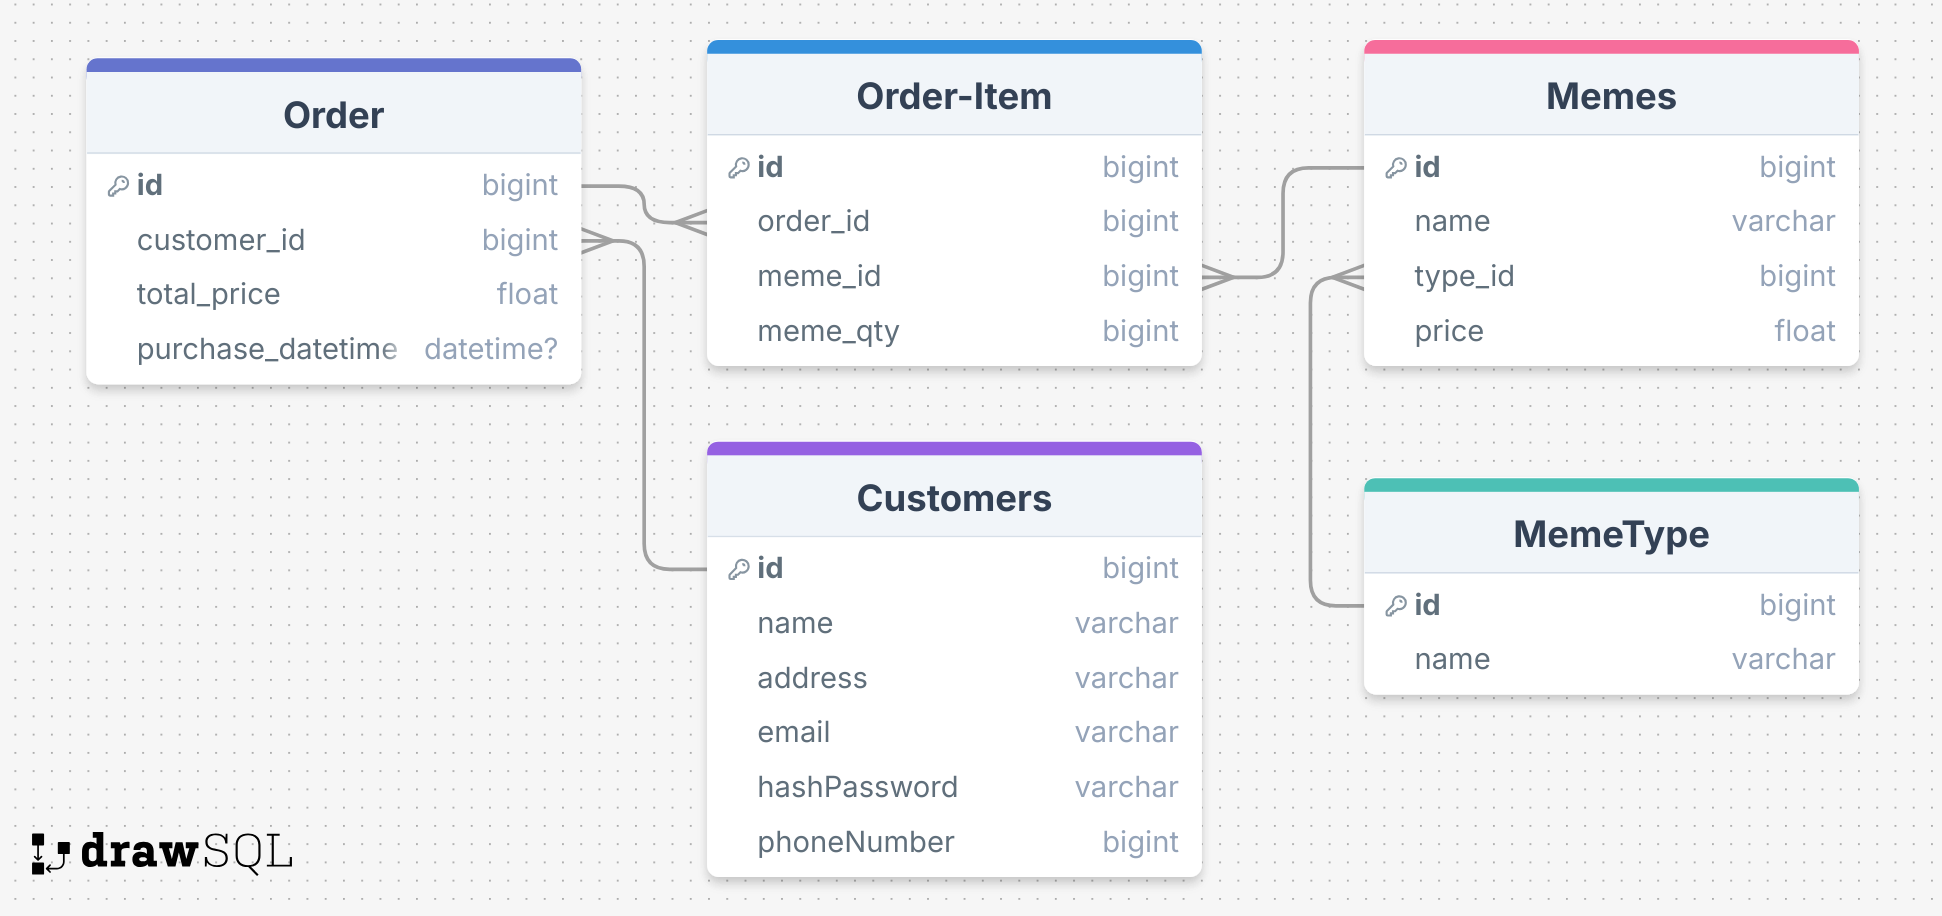
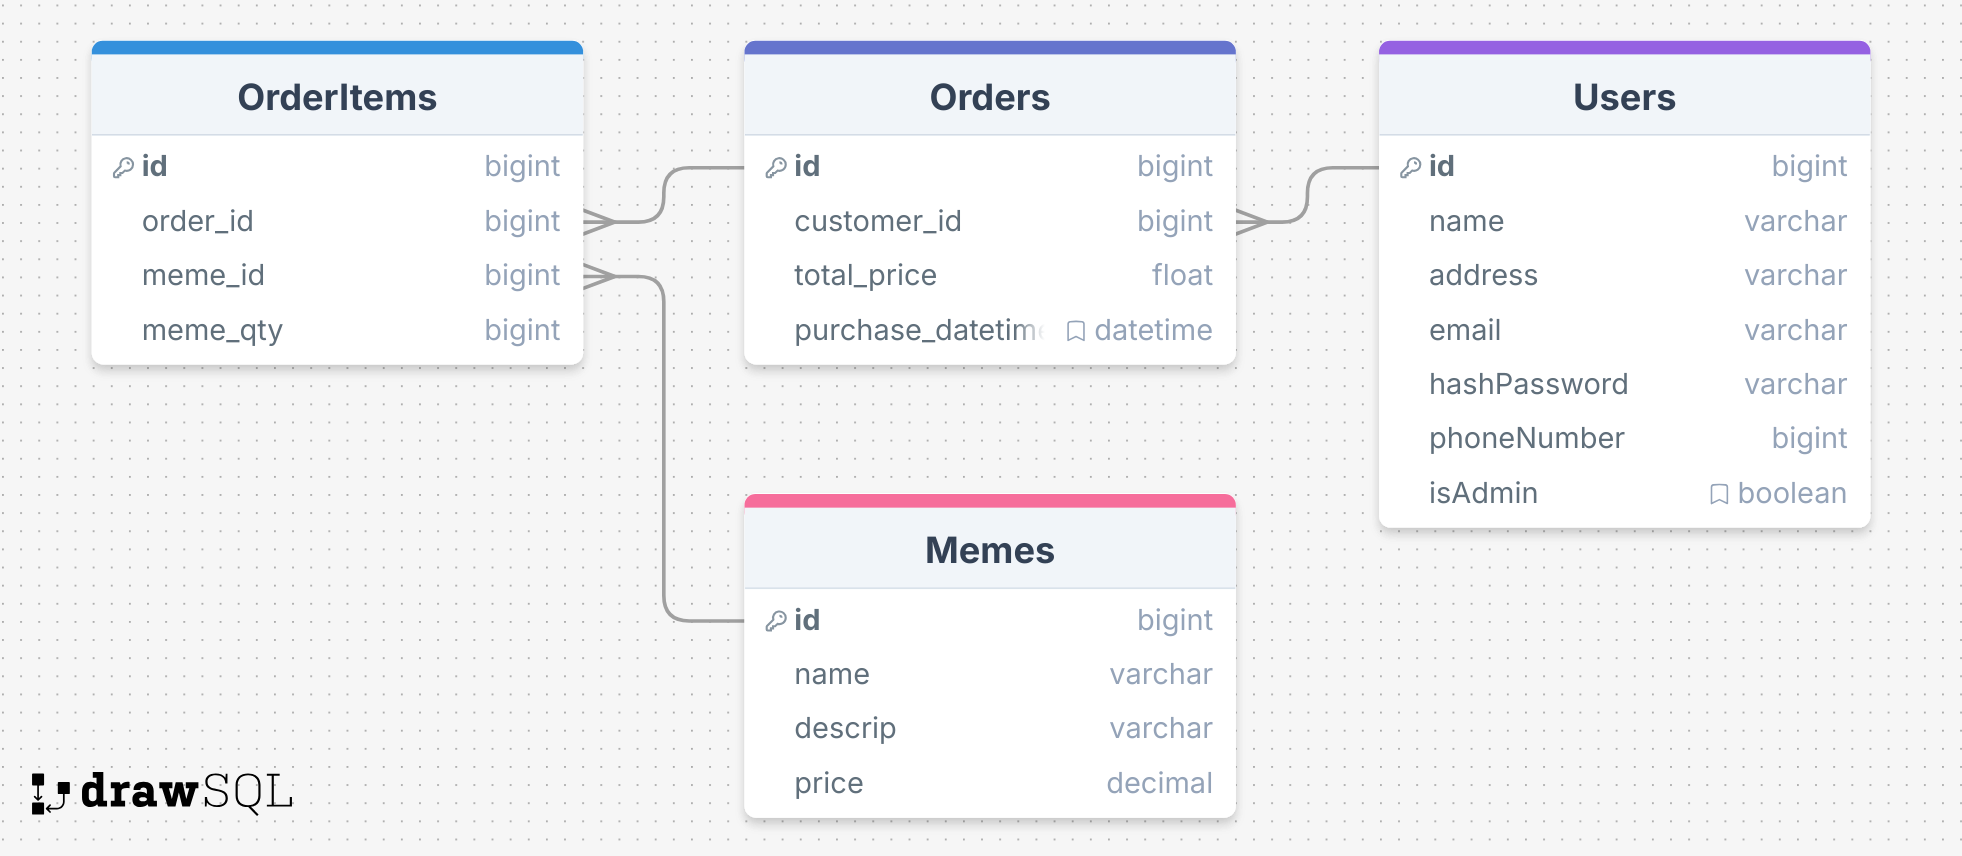
Update README.md and drawsql image

diff --git a/README.md b/README.md
@@ -4,11 +4,11 @@ Web Mini-Project Repository for NTU IM2073: Intro to Design &amp; Project
 ## Tech Stack
 
 ### Project Management
-- Maven
+- Maven (WebApp Archetype)
 
 ### Frontend
 - Java (Jakarta) Server Pages v4.0.0
-- JavaServer Pages Standard Tag Library v3.0.1
+- JavaServer Pages Standard Tag Library v3.0.1 + API v3.0.2
 - Base CSS & Javascript 
 
 ### Backend
